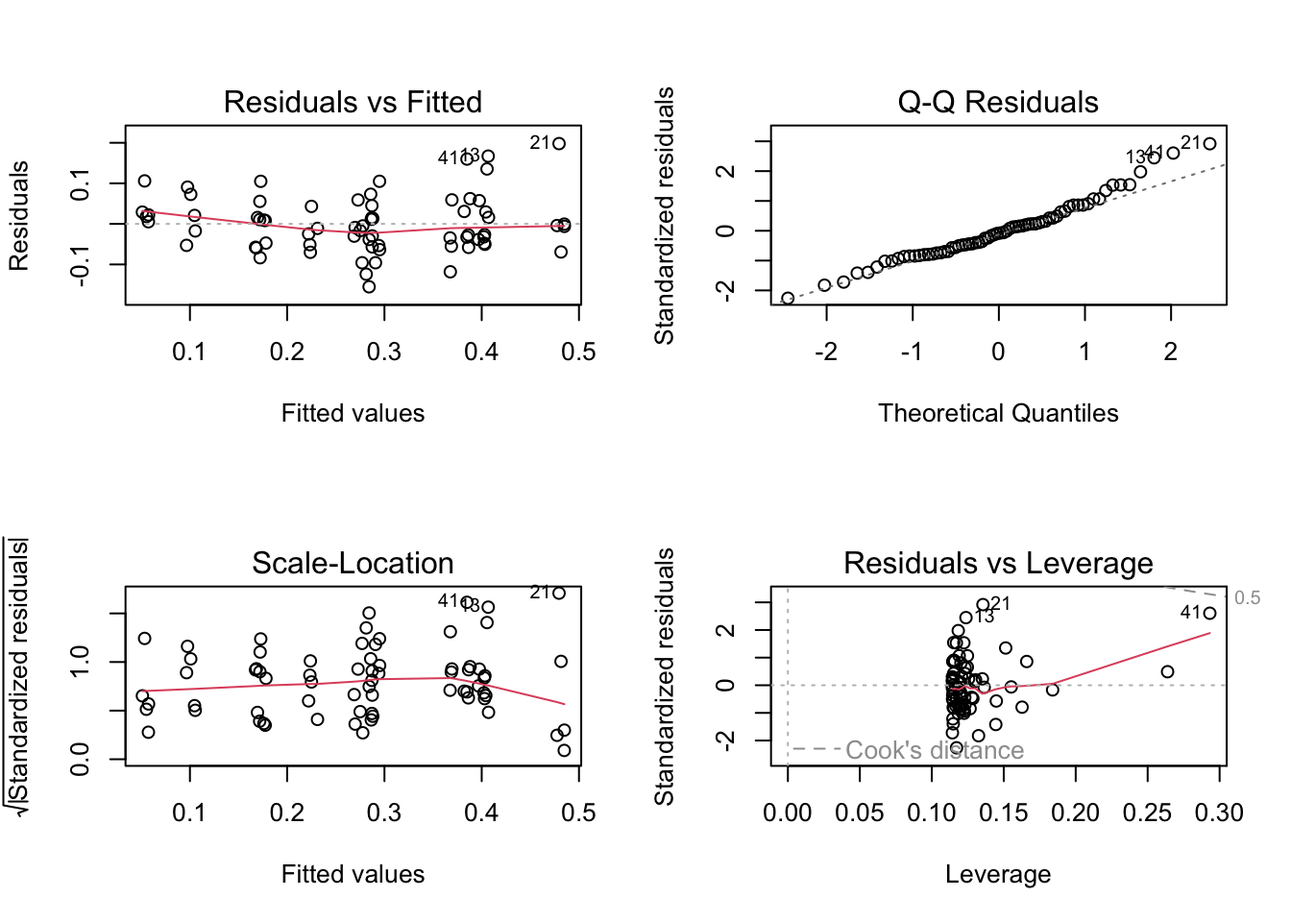
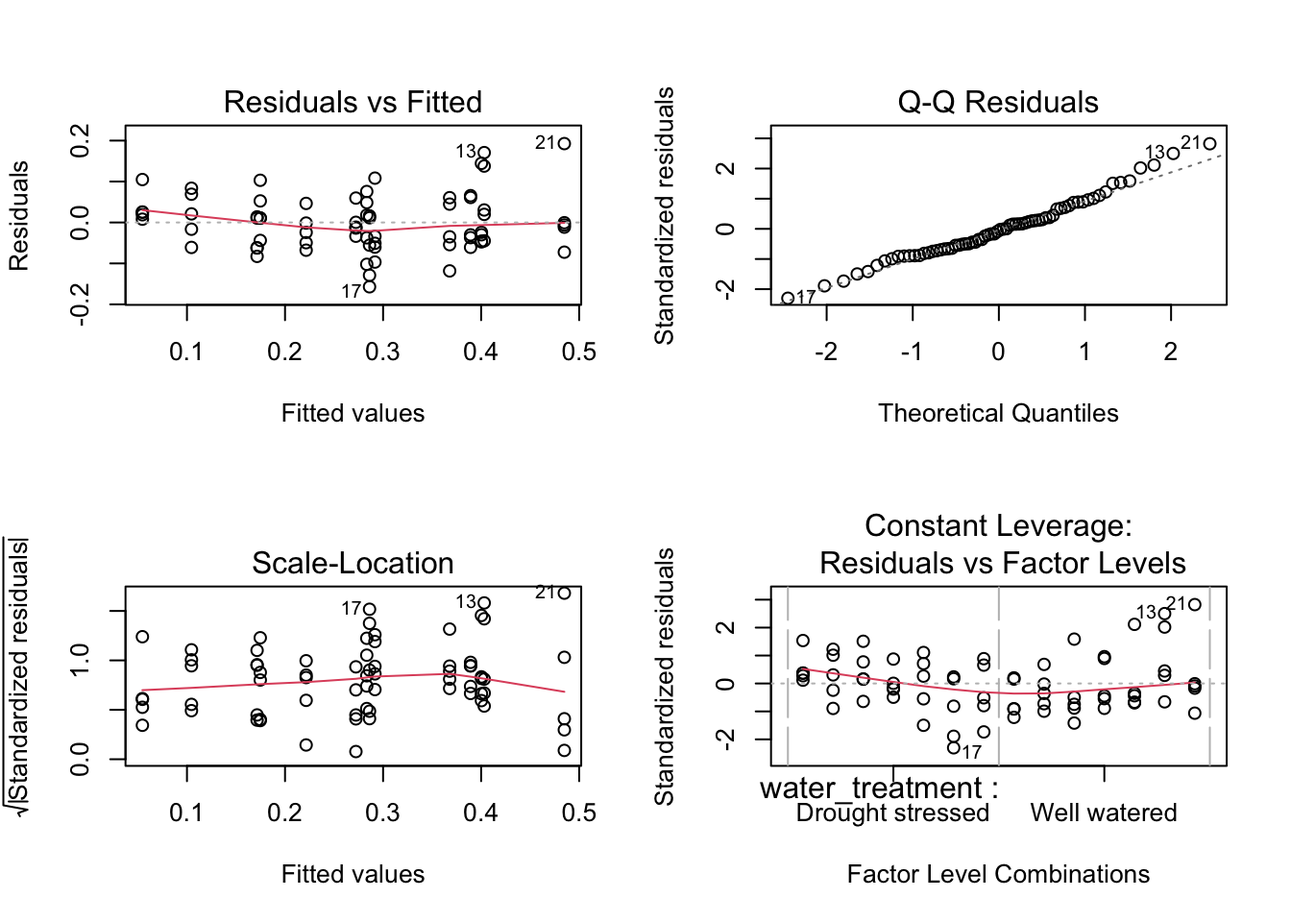
deleted some of the plots from the workshop to clean up the appearance of project page.

diff --git a/docs/project_page.html b/docs/project_page.html
@@ -245,7 +245,7 @@ window.Quarto = {
 </section>
 <section id="analysis-of-sample-restoration-data" class="level1">
 <h1>Analysis of sample restoration data</h1>
-<p>I am currently taking an Environmental Data Science class. In workshop, we worked with <a href="https://doi.org/10.5061/dryad.v0861f7">this data</a> to answer this question: How do specific leaf area, water treatment, and species influence plant mass? Results of this question can better inform restoration plans. Below is the completed workshop assignment, including code from r and it’s output.</p>
+<p>I am currently taking an Environmental Data Science class with An Bui. In workshop, we worked with <a href="https://doi.org/10.5061/dryad.v0861f7">this data</a> to answer this question: How do specific leaf area, water treatment, and species influence plant mass? Results of this question can better inform restoration plans. Below is the completed workshop assignment, including code from r and it’s output.</p>
 <p><strong>Specific leaf area</strong> is a continuous variable measured in cm<sup>2</sup>/g.</p>
 <p><strong>Water treatment</strong> is a categorical variable (i.e.&nbsp;a <em>factor</em>) with 2 levels: drought stressed (DS) and well watered (WW).</p>
 <p><strong>Species</strong> is a categorical variable (again, a <em>factor</em>) with 6 levels.</p>
@@ -394,16 +394,16 @@ window.Quarto = {
 <pre><code># A tibble: 10 × 4
    species_name               water_treatment    sla total_g
    &lt;fct&gt;                      &lt;fct&gt;            &lt;dbl&gt;   &lt;dbl&gt;
- 1 Stipa pulchra              Drought stressed 176.   0.181 
- 2 Salvia leucophylla         Drought stressed  74.4  0.131 
- 3 Salvia leucophylla         Well watered     127.   0.258 
- 4 Salvia leucophylla         Well watered      96.2  0.232 
- 5 Lotus scoparius            Drought stressed  90.9  0.0796
- 6 Grindelia camporum         Drought stressed 113.   0.413 
- 7 Encelia californica        Well watered     170.   0.455 
- 8 Eschscholzia californica   Well watered     122.   0.541 
- 9 Penstemon centranthifolius Well watered     165.   0.197 
-10 Penstemon centranthifolius Drought stressed 161.   0.174 </code></pre>
+ 1 Penstemon centranthifolius Well watered     160.   0.172 
+ 2 Grindelia camporum         Drought stressed 113.   0.413 
+ 3 Stipa pulchra              Well watered     163.   0.370 
+ 4 Eschscholzia californica   Drought stressed 118.   0.129 
+ 5 Stipa pulchra              Drought stressed 140.   0.359 
+ 6 Lotus scoparius            Drought stressed  91.4  0.0626
+ 7 Stipa pulchra              Drought stressed 146.   0.246 
+ 8 Lotus scoparius            Well watered     121.   0.0887
+ 9 Salvia leucophylla         Drought stressed  74.4  0.131 
+10 Grindelia camporum         Well watered     191.   0.484 </code></pre>
 </div>
 </div>
 </section>
@@ -628,78 +628,18 @@ window.Quarto = {
 <span id="cb11-40"><a href="#cb11-40" aria-hidden="true" tabindex="-1"></a>model7 <span class="ot">&lt;-</span> <span class="fu">lm</span>(total_g <span class="sc">~</span> species_name,</span>
 <span id="cb11-41"><a href="#cb11-41" aria-hidden="true" tabindex="-1"></a>             <span class="at">data =</span> drought_exp_clean)</span></code><button title="Copy to Clipboard" class="code-copy-button"><i class="bi"></i></button></pre></div>
 </div>
-<p>Model diagnostics</p>
-<div class="cell">
-<div class="sourceCode cell-code" id="cb12"><pre class="sourceCode r code-with-copy"><code class="sourceCode r"><span id="cb12-1"><a href="#cb12-1" aria-hidden="true" tabindex="-1"></a><span class="fu">par</span>(<span class="at">mfrow =</span> <span class="fu">c</span>(<span class="dv">2</span>,<span class="dv">2</span>))</span>
-<span id="cb12-2"><a href="#cb12-2" aria-hidden="true" tabindex="-1"></a><span class="fu">plot</span>(model1)</span></code><button title="Copy to Clipboard" class="code-copy-button"><i class="bi"></i></button></pre></div>
-<div class="cell-output-display">
-<div>
-<figure class="figure">
-<p><img src="project_page_files/figure-html/model-diagnostics-1.png" class="img-fluid figure-img" width="672"></p>
-</figure>
-</div>
-</div>
-<div class="sourceCode cell-code" id="cb13"><pre class="sourceCode r code-with-copy"><code class="sourceCode r"><span id="cb13-1"><a href="#cb13-1" aria-hidden="true" tabindex="-1"></a><span class="fu">plot</span>(model2)</span></code><button title="Copy to Clipboard" class="code-copy-button"><i class="bi"></i></button></pre></div>
-<div class="cell-output-display">
-<div>
-<figure class="figure">
-<p><img src="project_page_files/figure-html/model-diagnostics-2.png" class="img-fluid figure-img" width="672"></p>
-</figure>
-</div>
-</div>
-<div class="sourceCode cell-code" id="cb14"><pre class="sourceCode r code-with-copy"><code class="sourceCode r"><span id="cb14-1"><a href="#cb14-1" aria-hidden="true" tabindex="-1"></a><span class="fu">plot</span>(model3)</span></code><button title="Copy to Clipboard" class="code-copy-button"><i class="bi"></i></button></pre></div>
-<div class="cell-output-display">
-<div>
-<figure class="figure">
-<p><img src="project_page_files/figure-html/model-diagnostics-3.png" class="img-fluid figure-img" width="672"></p>
-</figure>
-</div>
-</div>
-<div class="sourceCode cell-code" id="cb15"><pre class="sourceCode r code-with-copy"><code class="sourceCode r"><span id="cb15-1"><a href="#cb15-1" aria-hidden="true" tabindex="-1"></a><span class="fu">plot</span>(model4) <span class="co"># residuals look ok for best model</span></span></code><button title="Copy to Clipboard" class="code-copy-button"><i class="bi"></i></button></pre></div>
-<div class="cell-output-display">
-<div>
-<figure class="figure">
-<p><img src="project_page_files/figure-html/model-diagnostics-4.png" class="img-fluid figure-img" width="672"></p>
-</figure>
-</div>
-</div>
-<div class="sourceCode cell-code" id="cb16"><pre class="sourceCode r code-with-copy"><code class="sourceCode r"><span id="cb16-1"><a href="#cb16-1" aria-hidden="true" tabindex="-1"></a><span class="fu">plot</span>(model5)</span></code><button title="Copy to Clipboard" class="code-copy-button"><i class="bi"></i></button></pre></div>
-<div class="cell-output-display">
-<div>
-<figure class="figure">
-<p><img src="project_page_files/figure-html/model-diagnostics-5.png" class="img-fluid figure-img" width="672"></p>
-</figure>
-</div>
-</div>
-<div class="sourceCode cell-code" id="cb17"><pre class="sourceCode r code-with-copy"><code class="sourceCode r"><span id="cb17-1"><a href="#cb17-1" aria-hidden="true" tabindex="-1"></a><span class="fu">plot</span>(model6)</span></code><button title="Copy to Clipboard" class="code-copy-button"><i class="bi"></i></button></pre></div>
-<div class="cell-output-display">
-<div>
-<figure class="figure">
-<p><img src="project_page_files/figure-html/model-diagnostics-6.png" class="img-fluid figure-img" width="672"></p>
-</figure>
-</div>
-</div>
-<div class="sourceCode cell-code" id="cb18"><pre class="sourceCode r code-with-copy"><code class="sourceCode r"><span id="cb18-1"><a href="#cb18-1" aria-hidden="true" tabindex="-1"></a><span class="fu">plot</span>(model7)</span></code><button title="Copy to Clipboard" class="code-copy-button"><i class="bi"></i></button></pre></div>
-<div class="cell-output-display">
-<div>
-<figure class="figure">
-<p><img src="project_page_files/figure-html/model-diagnostics-7.png" class="img-fluid figure-img" width="672"></p>
-</figure>
-</div>
-</div>
-</div>
 <p>Model selection</p>
 <div class="cell">
-<div class="sourceCode cell-code" id="cb19"><pre class="sourceCode r code-with-copy"><code class="sourceCode r"><span id="cb19-1"><a href="#cb19-1" aria-hidden="true" tabindex="-1"></a><span class="fu">AICc</span>(model1,</span>
-<span id="cb19-2"><a href="#cb19-2" aria-hidden="true" tabindex="-1"></a>     model2,</span>
-<span id="cb19-3"><a href="#cb19-3" aria-hidden="true" tabindex="-1"></a>     model3,</span>
-<span id="cb19-4"><a href="#cb19-4" aria-hidden="true" tabindex="-1"></a>     model4, <span class="co"># best model: water and species</span></span>
-<span id="cb19-5"><a href="#cb19-5" aria-hidden="true" tabindex="-1"></a>     model5,</span>
-<span id="cb19-6"><a href="#cb19-6" aria-hidden="true" tabindex="-1"></a>     model6,</span>
-<span id="cb19-7"><a href="#cb19-7" aria-hidden="true" tabindex="-1"></a>     model7,</span>
-<span id="cb19-8"><a href="#cb19-8" aria-hidden="true" tabindex="-1"></a>     model0) <span class="sc">|&gt;</span> </span>
-<span id="cb19-9"><a href="#cb19-9" aria-hidden="true" tabindex="-1"></a>  <span class="co"># arranging output in descending order of AIC</span></span>
-<span id="cb19-10"><a href="#cb19-10" aria-hidden="true" tabindex="-1"></a>  <span class="fu">arrange</span>(AICc)</span></code><button title="Copy to Clipboard" class="code-copy-button"><i class="bi"></i></button></pre></div>
+<div class="sourceCode cell-code" id="cb12"><pre class="sourceCode r code-with-copy"><code class="sourceCode r"><span id="cb12-1"><a href="#cb12-1" aria-hidden="true" tabindex="-1"></a><span class="fu">AICc</span>(model1,</span>
+<span id="cb12-2"><a href="#cb12-2" aria-hidden="true" tabindex="-1"></a>     model2,</span>
+<span id="cb12-3"><a href="#cb12-3" aria-hidden="true" tabindex="-1"></a>     model3,</span>
+<span id="cb12-4"><a href="#cb12-4" aria-hidden="true" tabindex="-1"></a>     model4, <span class="co"># best model: water and species</span></span>
+<span id="cb12-5"><a href="#cb12-5" aria-hidden="true" tabindex="-1"></a>     model5,</span>
+<span id="cb12-6"><a href="#cb12-6" aria-hidden="true" tabindex="-1"></a>     model6,</span>
+<span id="cb12-7"><a href="#cb12-7" aria-hidden="true" tabindex="-1"></a>     model7,</span>
+<span id="cb12-8"><a href="#cb12-8" aria-hidden="true" tabindex="-1"></a>     model0) <span class="sc">|&gt;</span> </span>
+<span id="cb12-9"><a href="#cb12-9" aria-hidden="true" tabindex="-1"></a>  <span class="co"># arranging output in descending order of AIC, model with lowest number is the best. </span></span>
+<span id="cb12-10"><a href="#cb12-10" aria-hidden="true" tabindex="-1"></a>  <span class="fu">arrange</span>(AICc)</span></code><button title="Copy to Clipboard" class="code-copy-button"><i class="bi"></i></button></pre></div>
 <div class="cell-output cell-output-stdout">
 <pre><code>       df       AICc
 model4  9 -156.19595
@@ -712,9 +652,21 @@ model6  3  -86.76661
 model0  2  -74.98036</code></pre>
 </div>
 </div>
+<div class="cell">
+<div class="sourceCode cell-code" id="cb14"><pre class="sourceCode r code-with-copy"><code class="sourceCode r"><span id="cb14-1"><a href="#cb14-1" aria-hidden="true" tabindex="-1"></a><span class="fu">par</span>(<span class="at">mfrow =</span> <span class="fu">c</span>(<span class="dv">2</span>,<span class="dv">2</span>))</span>
+<span id="cb14-2"><a href="#cb14-2" aria-hidden="true" tabindex="-1"></a><span class="fu">plot</span>(model4) <span class="co"># residuals look ok for best model. If not, would plot model 1, then 3, etc. </span></span></code><button title="Copy to Clipboard" class="code-copy-button"><i class="bi"></i></button></pre></div>
+<div class="cell-output-display">
+<div>
+<figure class="figure">
+<p><img src="project_page_files/figure-html/model-diagnostics-1.png" class="img-fluid figure-img" width="672"></p>
+</figure>
+</div>
+</div>
+</div>
+<p>Model selection</p>
 <p>Look at the model summary:</p>
 <div class="cell">
-<div class="sourceCode cell-code" id="cb21"><pre class="sourceCode r code-with-copy"><code class="sourceCode r"><span id="cb21-1"><a href="#cb21-1" aria-hidden="true" tabindex="-1"></a><span class="fu">summary</span>(model4)</span></code><button title="Copy to Clipboard" class="code-copy-button"><i class="bi"></i></button></pre></div>
+<div class="sourceCode cell-code" id="cb15"><pre class="sourceCode r code-with-copy"><code class="sourceCode r"><span id="cb15-1"><a href="#cb15-1" aria-hidden="true" tabindex="-1"></a><span class="fu">summary</span>(model4)</span></code><button title="Copy to Clipboard" class="code-copy-button"><i class="bi"></i></button></pre></div>
 <div class="cell-output cell-output-stdout">
 <pre><code>
 Call:
@@ -741,8 +693,8 @@ Residual standard error: 0.07252 on 62 degrees of freedom
 Multiple R-squared:  0.7535,    Adjusted R-squared:  0.7257 
 F-statistic: 27.08 on 7 and 62 DF,  p-value: &lt; 2.2e-16</code></pre>
 </div>
-<div class="sourceCode cell-code" id="cb23"><pre class="sourceCode r code-with-copy"><code class="sourceCode r"><span id="cb23-1"><a href="#cb23-1" aria-hidden="true" tabindex="-1"></a><span class="co"># reference level for water_treatment: Drought stressed</span></span>
-<span id="cb23-2"><a href="#cb23-2" aria-hidden="true" tabindex="-1"></a><span class="co"># reference level for species: Lotus scoparius</span></span></code><button title="Copy to Clipboard" class="code-copy-button"><i class="bi"></i></button></pre></div>
+<div class="sourceCode cell-code" id="cb17"><pre class="sourceCode r code-with-copy"><code class="sourceCode r"><span id="cb17-1"><a href="#cb17-1" aria-hidden="true" tabindex="-1"></a><span class="co"># reference level for water_treatment: Drought stressed</span></span>
+<span id="cb17-2"><a href="#cb17-2" aria-hidden="true" tabindex="-1"></a><span class="co"># reference level for species: Lotus scoparius</span></span></code><button title="Copy to Clipboard" class="code-copy-button"><i class="bi"></i></button></pre></div>
 </div>
 <p><strong>What is the best model?</strong></p>
 <p>The best model that predicts total plant mass (g) includes water treatment and species (F(7, 62) = 27.08, p &lt; 0.001, <span class="math inline">\(\alpha\)</span> = 0.05), but not SLA.</p>
@@ -755,49 +707,49 @@ F-statistic: 27.08 on 7 and 62 DF,  p-value: &lt; 2.2e-16</code></pre>
 <section id="model-predictions" class="level3">
 <h3 class="anchored" data-anchor-id="model-predictions">5. Model predictions</h3>
 <div class="cell">
-<div class="sourceCode cell-code" id="cb24"><pre class="sourceCode r code-with-copy"><code class="sourceCode r"><span id="cb24-1"><a href="#cb24-1" aria-hidden="true" tabindex="-1"></a>model4_predictions <span class="ot">&lt;-</span> <span class="fu">ggpredict</span>(</span>
-<span id="cb24-2"><a href="#cb24-2" aria-hidden="true" tabindex="-1"></a>  model4, <span class="co"># model object</span></span>
-<span id="cb24-3"><a href="#cb24-3" aria-hidden="true" tabindex="-1"></a>  <span class="at">terms =</span> <span class="fu">c</span>(<span class="st">"species_name"</span>, <span class="st">"water_treatment"</span>) <span class="co"># predictors</span></span>
-<span id="cb24-4"><a href="#cb24-4" aria-hidden="true" tabindex="-1"></a>) <span class="sc">|&gt;</span> </span>
-<span id="cb24-5"><a href="#cb24-5" aria-hidden="true" tabindex="-1"></a>  <span class="co"># treating this like a regular data frame</span></span>
-<span id="cb24-6"><a href="#cb24-6" aria-hidden="true" tabindex="-1"></a>  <span class="co"># renaming the columns</span></span>
-<span id="cb24-7"><a href="#cb24-7" aria-hidden="true" tabindex="-1"></a>  <span class="fu">rename</span>(<span class="at">species_name =</span> x,</span>
-<span id="cb24-8"><a href="#cb24-8" aria-hidden="true" tabindex="-1"></a>         <span class="at">water_treatment =</span> group)</span></code><button title="Copy to Clipboard" class="code-copy-button"><i class="bi"></i></button></pre></div>
+<div class="sourceCode cell-code" id="cb18"><pre class="sourceCode r code-with-copy"><code class="sourceCode r"><span id="cb18-1"><a href="#cb18-1" aria-hidden="true" tabindex="-1"></a>model4_predictions <span class="ot">&lt;-</span> <span class="fu">ggpredict</span>(</span>
+<span id="cb18-2"><a href="#cb18-2" aria-hidden="true" tabindex="-1"></a>  model4, <span class="co"># model object</span></span>
+<span id="cb18-3"><a href="#cb18-3" aria-hidden="true" tabindex="-1"></a>  <span class="at">terms =</span> <span class="fu">c</span>(<span class="st">"species_name"</span>, <span class="st">"water_treatment"</span>) <span class="co"># predictors</span></span>
+<span id="cb18-4"><a href="#cb18-4" aria-hidden="true" tabindex="-1"></a>) <span class="sc">|&gt;</span> </span>
+<span id="cb18-5"><a href="#cb18-5" aria-hidden="true" tabindex="-1"></a>  <span class="co"># treating this like a regular data frame</span></span>
+<span id="cb18-6"><a href="#cb18-6" aria-hidden="true" tabindex="-1"></a>  <span class="co"># renaming the columns</span></span>
+<span id="cb18-7"><a href="#cb18-7" aria-hidden="true" tabindex="-1"></a>  <span class="fu">rename</span>(<span class="at">species_name =</span> x,</span>
+<span id="cb18-8"><a href="#cb18-8" aria-hidden="true" tabindex="-1"></a>         <span class="at">water_treatment =</span> group)</span></code><button title="Copy to Clipboard" class="code-copy-button"><i class="bi"></i></button></pre></div>
 </div>
 </section>
 <section id="final-figure" class="level3">
 <h3 class="anchored" data-anchor-id="final-figure">6. Final figure</h3>
 <div class="cell">
-<div class="sourceCode cell-code" id="cb25"><pre class="sourceCode r code-with-copy"><code class="sourceCode r"><span id="cb25-1"><a href="#cb25-1" aria-hidden="true" tabindex="-1"></a><span class="co"># base layer: ggplot</span></span>
-<span id="cb25-2"><a href="#cb25-2" aria-hidden="true" tabindex="-1"></a><span class="co"># using the drought_exp_clean object</span></span>
-<span id="cb25-3"><a href="#cb25-3" aria-hidden="true" tabindex="-1"></a><span class="fu">ggplot</span>(<span class="at">data =</span> drought_exp_clean,</span>
-<span id="cb25-4"><a href="#cb25-4" aria-hidden="true" tabindex="-1"></a>       <span class="fu">aes</span>(<span class="at">x =</span> water_treatment,</span>
-<span id="cb25-5"><a href="#cb25-5" aria-hidden="true" tabindex="-1"></a>           <span class="at">y =</span> total_g,</span>
-<span id="cb25-6"><a href="#cb25-6" aria-hidden="true" tabindex="-1"></a>           <span class="at">color =</span> water_treatment)) <span class="sc">+</span></span>
-<span id="cb25-7"><a href="#cb25-7" aria-hidden="true" tabindex="-1"></a>  <span class="co"># first layer: jitter showing individual observations</span></span>
-<span id="cb25-8"><a href="#cb25-8" aria-hidden="true" tabindex="-1"></a>  <span class="fu">geom_jitter</span>(<span class="at">width =</span> <span class="fl">0.1</span>,</span>
-<span id="cb25-9"><a href="#cb25-9" aria-hidden="true" tabindex="-1"></a>              <span class="at">height =</span> <span class="dv">0</span>,</span>
-<span id="cb25-10"><a href="#cb25-10" aria-hidden="true" tabindex="-1"></a>              <span class="at">shape =</span> <span class="dv">21</span>,</span>
-<span id="cb25-11"><a href="#cb25-11" aria-hidden="true" tabindex="-1"></a>              <span class="at">alpha =</span> <span class="fl">0.6</span>) <span class="sc">+</span></span>
-<span id="cb25-12"><a href="#cb25-12" aria-hidden="true" tabindex="-1"></a>  <span class="co"># second layer: point range showing model predictions</span></span>
-<span id="cb25-13"><a href="#cb25-13" aria-hidden="true" tabindex="-1"></a>  <span class="co"># note that this is appropriate because there are only categorical predictors</span></span>
-<span id="cb25-14"><a href="#cb25-14" aria-hidden="true" tabindex="-1"></a>  <span class="co"># in the final model</span></span>
-<span id="cb25-15"><a href="#cb25-15" aria-hidden="true" tabindex="-1"></a>  <span class="fu">geom_pointrange</span>(<span class="at">data =</span> model4_predictions,</span>
-<span id="cb25-16"><a href="#cb25-16" aria-hidden="true" tabindex="-1"></a>                  <span class="fu">aes</span>(<span class="at">y =</span> predicted,</span>
-<span id="cb25-17"><a href="#cb25-17" aria-hidden="true" tabindex="-1"></a>                      <span class="at">ymin =</span> conf.low,</span>
-<span id="cb25-18"><a href="#cb25-18" aria-hidden="true" tabindex="-1"></a>                      <span class="at">ymax =</span> conf.high)) <span class="sc">+</span></span>
-<span id="cb25-19"><a href="#cb25-19" aria-hidden="true" tabindex="-1"></a>  <span class="co"># manually setting colors</span></span>
-<span id="cb25-20"><a href="#cb25-20" aria-hidden="true" tabindex="-1"></a>  <span class="fu">scale_color_manual</span>(<span class="at">values =</span> <span class="fu">c</span>(<span class="st">"Well watered"</span> <span class="ot">=</span> ww_col,</span>
-<span id="cb25-21"><a href="#cb25-21" aria-hidden="true" tabindex="-1"></a>                                <span class="st">"Drought stressed"</span> <span class="ot">=</span> ds_col)) <span class="sc">+</span></span>
-<span id="cb25-22"><a href="#cb25-22" aria-hidden="true" tabindex="-1"></a>  <span class="co"># wrapping x-axis labels</span></span>
-<span id="cb25-23"><a href="#cb25-23" aria-hidden="true" tabindex="-1"></a>  <span class="fu">scale_x_discrete</span>(<span class="at">labels =</span> <span class="fu">label_wrap</span>(<span class="dv">10</span>)) <span class="sc">+</span></span>
-<span id="cb25-24"><a href="#cb25-24" aria-hidden="true" tabindex="-1"></a>  <span class="co"># creating different panels for each species</span></span>
-<span id="cb25-25"><a href="#cb25-25" aria-hidden="true" tabindex="-1"></a>  <span class="fu">facet_wrap</span>(<span class="sc">~</span>species_name, <span class="at">nrow =</span> <span class="dv">1</span>) <span class="sc">+</span></span>
-<span id="cb25-26"><a href="#cb25-26" aria-hidden="true" tabindex="-1"></a>  <span class="co"># labelling x- and y-axis</span></span>
-<span id="cb25-27"><a href="#cb25-27" aria-hidden="true" tabindex="-1"></a>  <span class="fu">labs</span>(<span class="at">x =</span> <span class="st">"Water treatment"</span>,</span>
-<span id="cb25-28"><a href="#cb25-28" aria-hidden="true" tabindex="-1"></a>       <span class="at">y =</span> <span class="st">"Total mass (g)"</span>) <span class="sc">+</span></span>
-<span id="cb25-29"><a href="#cb25-29" aria-hidden="true" tabindex="-1"></a>  <span class="co"># taking out the legend</span></span>
-<span id="cb25-30"><a href="#cb25-30" aria-hidden="true" tabindex="-1"></a>  <span class="fu">theme</span>(<span class="at">legend.position =</span> <span class="st">"none"</span>)</span></code><button title="Copy to Clipboard" class="code-copy-button"><i class="bi"></i></button></pre></div>
+<div class="sourceCode cell-code" id="cb19"><pre class="sourceCode r code-with-copy"><code class="sourceCode r"><span id="cb19-1"><a href="#cb19-1" aria-hidden="true" tabindex="-1"></a><span class="co"># base layer: ggplot</span></span>
+<span id="cb19-2"><a href="#cb19-2" aria-hidden="true" tabindex="-1"></a><span class="co"># using the drought_exp_clean object</span></span>
+<span id="cb19-3"><a href="#cb19-3" aria-hidden="true" tabindex="-1"></a><span class="fu">ggplot</span>(<span class="at">data =</span> drought_exp_clean,</span>
+<span id="cb19-4"><a href="#cb19-4" aria-hidden="true" tabindex="-1"></a>       <span class="fu">aes</span>(<span class="at">x =</span> water_treatment,</span>
+<span id="cb19-5"><a href="#cb19-5" aria-hidden="true" tabindex="-1"></a>           <span class="at">y =</span> total_g,</span>
+<span id="cb19-6"><a href="#cb19-6" aria-hidden="true" tabindex="-1"></a>           <span class="at">color =</span> water_treatment)) <span class="sc">+</span></span>
+<span id="cb19-7"><a href="#cb19-7" aria-hidden="true" tabindex="-1"></a>  <span class="co"># first layer: jitter showing individual observations</span></span>
+<span id="cb19-8"><a href="#cb19-8" aria-hidden="true" tabindex="-1"></a>  <span class="fu">geom_jitter</span>(<span class="at">width =</span> <span class="fl">0.1</span>,</span>
+<span id="cb19-9"><a href="#cb19-9" aria-hidden="true" tabindex="-1"></a>              <span class="at">height =</span> <span class="dv">0</span>,</span>
+<span id="cb19-10"><a href="#cb19-10" aria-hidden="true" tabindex="-1"></a>              <span class="at">shape =</span> <span class="dv">21</span>,</span>
+<span id="cb19-11"><a href="#cb19-11" aria-hidden="true" tabindex="-1"></a>              <span class="at">alpha =</span> <span class="fl">0.6</span>) <span class="sc">+</span></span>
+<span id="cb19-12"><a href="#cb19-12" aria-hidden="true" tabindex="-1"></a>  <span class="co"># second layer: point range showing model predictions</span></span>
+<span id="cb19-13"><a href="#cb19-13" aria-hidden="true" tabindex="-1"></a>  <span class="co"># note that this is appropriate because there are only categorical predictors</span></span>
+<span id="cb19-14"><a href="#cb19-14" aria-hidden="true" tabindex="-1"></a>  <span class="co"># in the final model</span></span>
+<span id="cb19-15"><a href="#cb19-15" aria-hidden="true" tabindex="-1"></a>  <span class="fu">geom_pointrange</span>(<span class="at">data =</span> model4_predictions,</span>
+<span id="cb19-16"><a href="#cb19-16" aria-hidden="true" tabindex="-1"></a>                  <span class="fu">aes</span>(<span class="at">y =</span> predicted,</span>
+<span id="cb19-17"><a href="#cb19-17" aria-hidden="true" tabindex="-1"></a>                      <span class="at">ymin =</span> conf.low,</span>
+<span id="cb19-18"><a href="#cb19-18" aria-hidden="true" tabindex="-1"></a>                      <span class="at">ymax =</span> conf.high)) <span class="sc">+</span></span>
+<span id="cb19-19"><a href="#cb19-19" aria-hidden="true" tabindex="-1"></a>  <span class="co"># manually setting colors</span></span>
+<span id="cb19-20"><a href="#cb19-20" aria-hidden="true" tabindex="-1"></a>  <span class="fu">scale_color_manual</span>(<span class="at">values =</span> <span class="fu">c</span>(<span class="st">"Well watered"</span> <span class="ot">=</span> ww_col,</span>
+<span id="cb19-21"><a href="#cb19-21" aria-hidden="true" tabindex="-1"></a>                                <span class="st">"Drought stressed"</span> <span class="ot">=</span> ds_col)) <span class="sc">+</span></span>
+<span id="cb19-22"><a href="#cb19-22" aria-hidden="true" tabindex="-1"></a>  <span class="co"># wrapping x-axis labels</span></span>
+<span id="cb19-23"><a href="#cb19-23" aria-hidden="true" tabindex="-1"></a>  <span class="fu">scale_x_discrete</span>(<span class="at">labels =</span> <span class="fu">label_wrap</span>(<span class="dv">10</span>)) <span class="sc">+</span></span>
+<span id="cb19-24"><a href="#cb19-24" aria-hidden="true" tabindex="-1"></a>  <span class="co"># creating different panels for each species</span></span>
+<span id="cb19-25"><a href="#cb19-25" aria-hidden="true" tabindex="-1"></a>  <span class="fu">facet_wrap</span>(<span class="sc">~</span>species_name, <span class="at">nrow =</span> <span class="dv">1</span>) <span class="sc">+</span></span>
+<span id="cb19-26"><a href="#cb19-26" aria-hidden="true" tabindex="-1"></a>  <span class="co"># labelling x- and y-axis</span></span>
+<span id="cb19-27"><a href="#cb19-27" aria-hidden="true" tabindex="-1"></a>  <span class="fu">labs</span>(<span class="at">x =</span> <span class="st">"Water treatment"</span>,</span>
+<span id="cb19-28"><a href="#cb19-28" aria-hidden="true" tabindex="-1"></a>       <span class="at">y =</span> <span class="st">"Total mass (g)"</span>) <span class="sc">+</span></span>
+<span id="cb19-29"><a href="#cb19-29" aria-hidden="true" tabindex="-1"></a>  <span class="co"># taking out the legend</span></span>
+<span id="cb19-30"><a href="#cb19-30" aria-hidden="true" tabindex="-1"></a>  <span class="fu">theme</span>(<span class="at">legend.position =</span> <span class="st">"none"</span>)</span></code><button title="Copy to Clipboard" class="code-copy-button"><i class="bi"></i></button></pre></div>
 <div class="cell-output-display">
 <div>
 <figure class="figure">
@@ -807,6 +759,7 @@ F-statistic: 27.08 on 7 and 62 DF,  p-value: &lt; 2.2e-16</code></pre>
 </div>
 </div>
 <p>Data source: Valliere, Justin; Zhang, Jacqueline; Sharifi, M.; Rundel, Philip (2019). Data from: Can we condition native plants to increase drought tolerance and improve restoration success? [Dataset]. Dryad. <a href="https://doi.org/10.5061/dryad.v0861f7">https://doi.org/10.5061/dryad.v0861f7</a></p>
+<p>Code: An Bui created the template for this workshop, and Thuy-Tien Bui walked us through each step in class.</p>
 
 
 </section>
